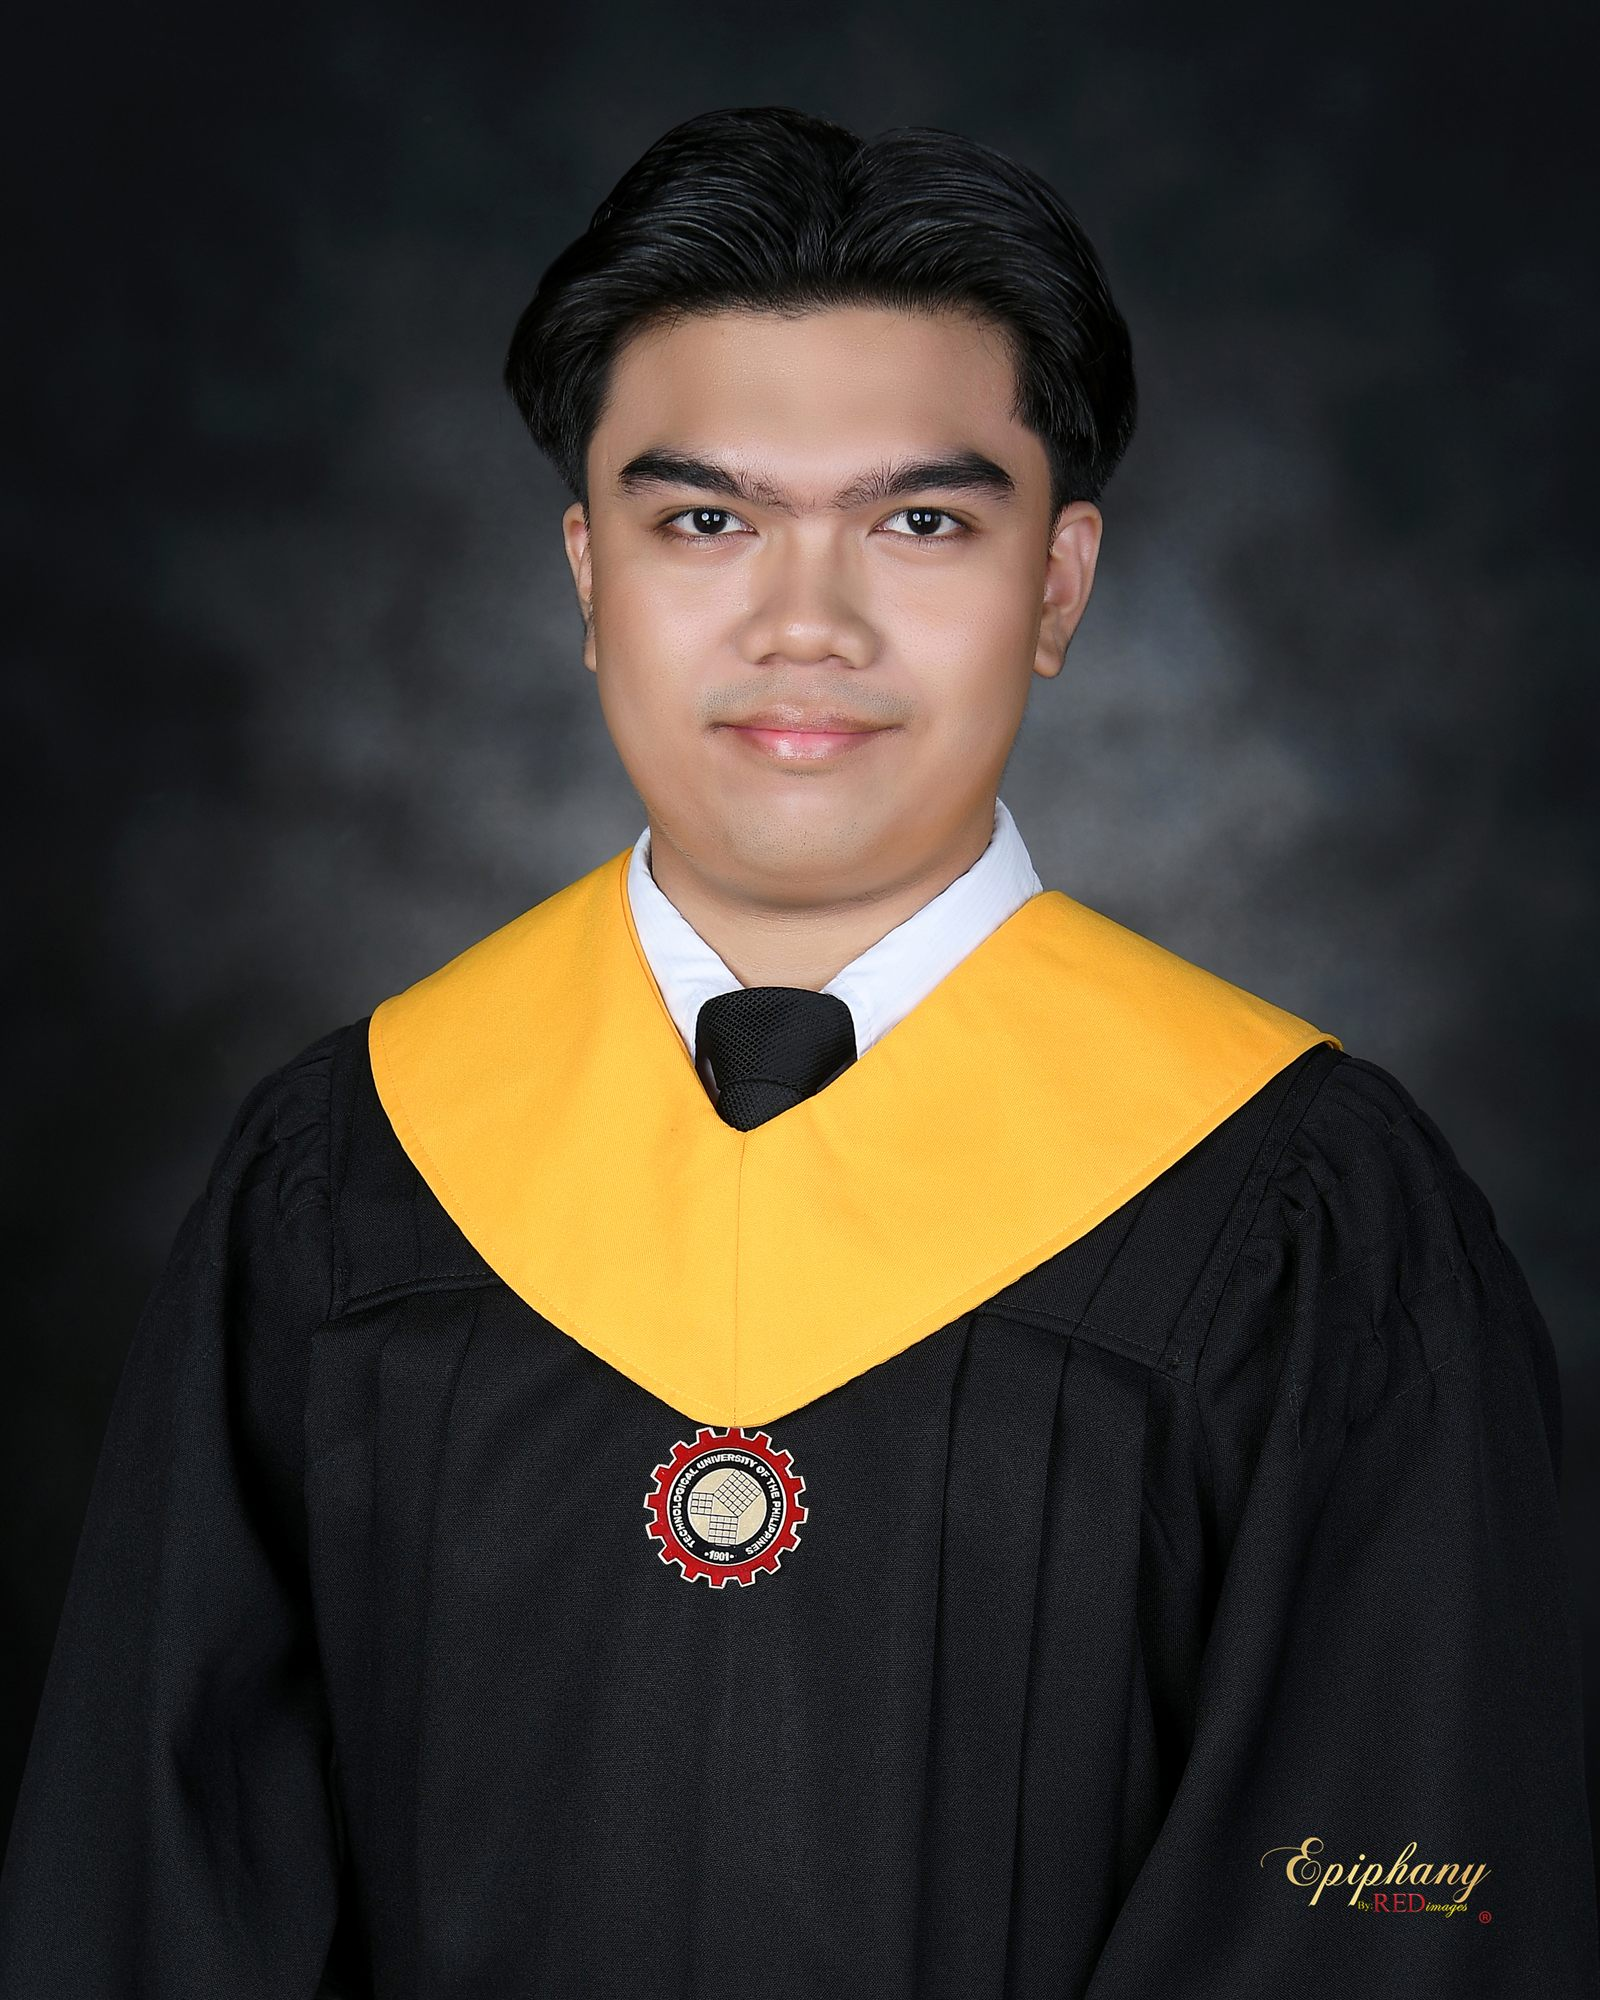
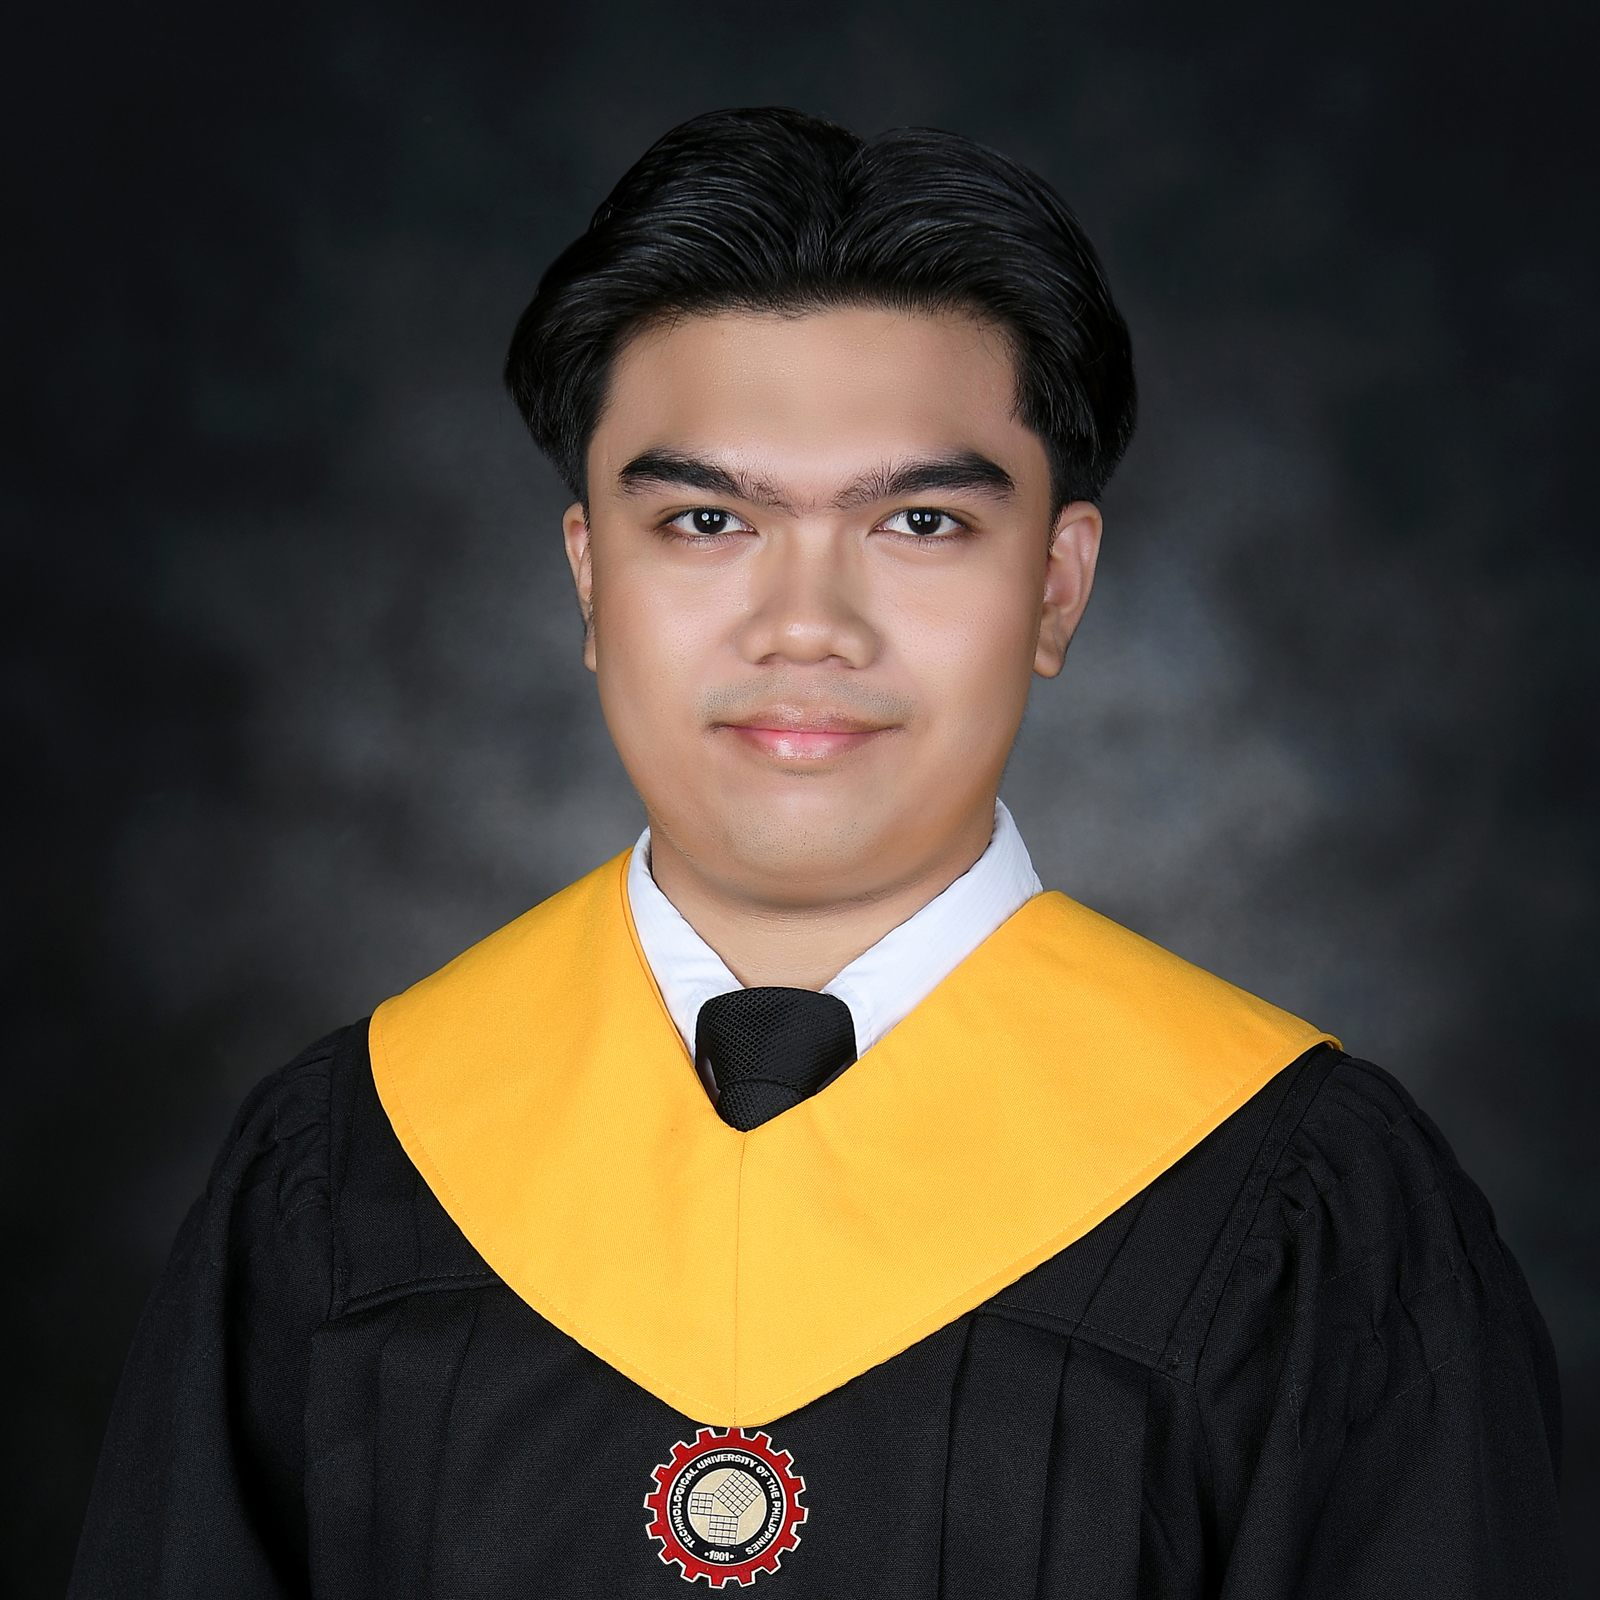
feat(hero): half-body portrait with a Magna Cum Laude caption
Re-crop the portrait to a square half-body shot from the original, which
also removes the studio watermark. Over its lower edge, a caption shows
the TUP seal (from Wikipedia's TUP article) with "Magna Cum Laude" and
"TUP Manila · 1.36"; it stays in colour while the photo is black and
white. The honor lives in site.honor and is added to the chat's facts.
The LinkedIn social icon also switches to the official square logo.

diff --git a/src/data/site.ts b/src/data/site.ts
@@ -1,5 +1,5 @@
 // Personal details used across the site. Replace every [PLACEHOLDER].
-import { faGithub, faLinkedinIn } from "@fortawesome/free-brands-svg-icons";
+import { faGithub, faLinkedin } from "@fortawesome/free-brands-svg-icons";
 
 export const site = {
   name: "Jerome Tegrado",
@@ -22,6 +22,14 @@ export const site = {
     image: "/images/loading.jpg",
   },
 
+  // Honor shown over the hero portrait. Remove to hide the caption.
+  honor: {
+    title: "Magna Cum Laude",
+    detail: "TUP Manila · 1.36",
+    school: "Technological University of the Philippines",
+    logo: "/images/tup-seal.png",
+  },
+
   // Your photo for the round chat button, e.g. "/images/avatar.jpg" (a square photo in public/images).
   // Leave empty to show the JT logo instead.
   chatAvatar: "/images/chat-avatar.jpg",
@@ -38,6 +46,6 @@ export const site = {
 };
 
 export const socials = [
-  { label: "LinkedIn", href: "#", icon: faLinkedinIn }, // [LINKEDIN URL]
+  { label: "LinkedIn", href: "#", icon: faLinkedin }, // [LINKEDIN URL]
   { label: "GitHub", href: "#", icon: faGithub }, // [GITHUB URL]
 ];

diff --git a/src/data/assistant.ts b/src/data/assistant.ts
@@ -13,7 +13,7 @@ export const assistant = {
     "[YEARS OF EXPERIENCE AND MAIN SKILLS]",
     "[CURRENT COMPANY OR FREELANCE STATUS]",
     "[WHAT KIND OF WORK OR CLIENTS YOU'RE LOOKING FOR]",
-    "[EDUCATION]",
+    "I graduated Magna Cum Laude (1.36) from the Technological University of the Philippines (TUP) Manila.",
     "[LINKEDIN PROFILE URL]",
   ],
 };
